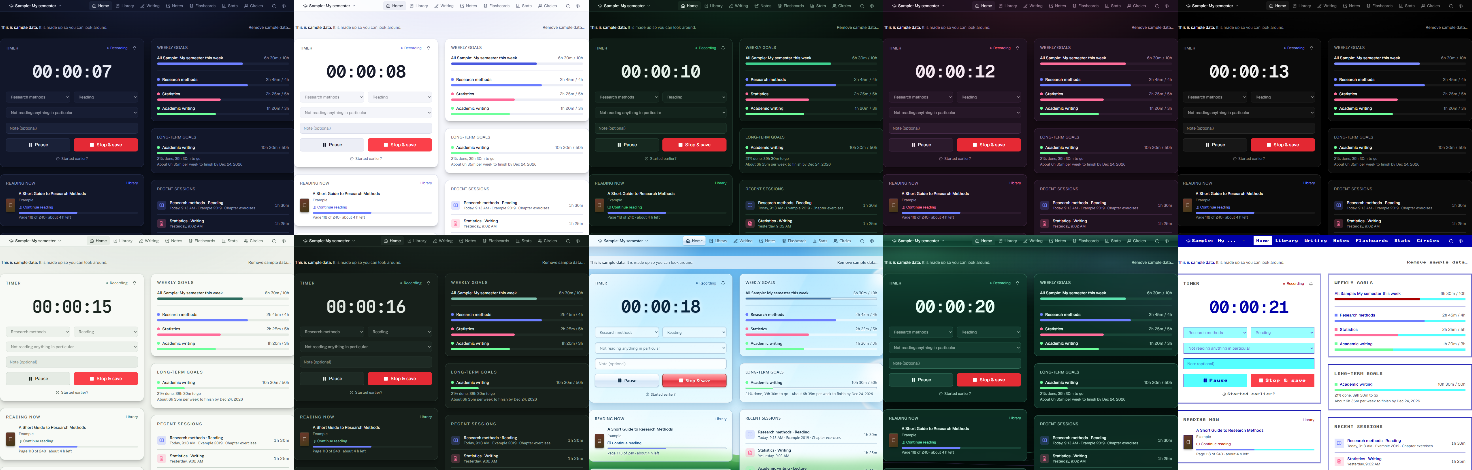
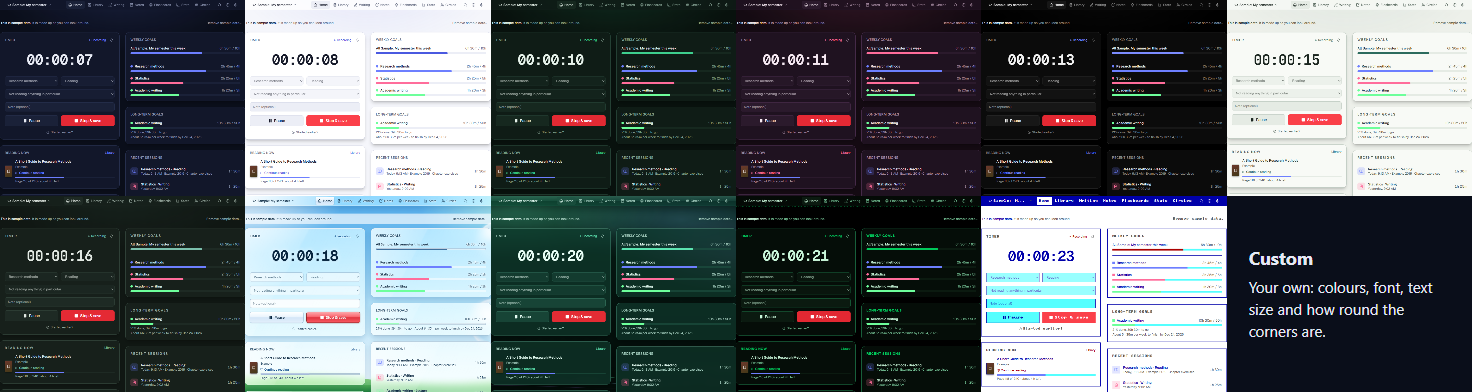
Update the site

diff --git a/docs/manual.html b/docs/manual.html
@@ -23,7 +23,7 @@
   </header>
 
   <h1>The full user manual</h1>
-  <p class="lead">Everything Voynich does, part by part. New here? Start with <a href="guide.html">Getting started in ten minutes</a>. This manual describes version 0.75.0; later versions may add things, and Settings, About and updates lists what changed.</p>
+  <p class="lead">Everything Voynich does, part by part. New here? Start with <a href="guide.html">Getting started in ten minutes</a>. This manual describes version 0.76.0; later versions may add things, and Settings, About and updates lists what changed.</p>
 
   <div class="layout">
     <nav class="toc" aria-label="Contents">
@@ -87,7 +87,8 @@
           <tr><td><strong>Goal</strong></td><td>A weekly or total number of hours for a course, or a daily goal for the room.</td></tr>
         </table>
         <p id="places">The hall and every room have the same tabs along the top: <strong>Home</strong>, <strong>Library</strong>, <strong>Writing</strong>, <strong>Notes</strong>, <strong>Flashcards</strong>, <strong>Stats</strong> (with the sessions inside it) and <strong>Circles</strong>, and <strong>AI</strong> in a room when the AI is on. The room they show is named at the start of the bar: click it to choose another room (or the hall), and you stay on the same tab, so Notes in one room opens Notes in the other. At the end of the bar are the search and the gear, <strong>Settings</strong>: one page, the same in the hall and in every room (see <a href="#settings">Settings</a>). In the hall, Library has every room&rsquo;s books too, Stats is the hall and all your rooms together, and Flashcards shows what is due in each room. In this manual, &ldquo;Settings, Privacy&rdquo; means the Privacy tab of that page. The same menu has the closed rooms under their own heading, and <strong>New room</strong>. On a narrow window the tabs show only their icons (point at one for its name); on a phone they are in a bar at the bottom (see <a href="#phone">On the phone</a>).</p>
-        <p id="top-bar">The bar of pages along the top gets out of the way while you read down a page: it slides up as you scroll down, and comes back when you move the pointer to the top edge of the window, when you scroll back to the top, when you <kbd>Tab</kbd> into it, or (on a phone) when you scroll up. A document&rsquo;s own buttons and toolbar move up into its place and back.</p>
+        <p id="top-bar">The bar of pages along the top gets out of the way while you read down a page: it slides up as you scroll down, and comes back when you move the pointer to the top edge of the window, when you scroll back to the top, when you <kbd>Tab</kbd> into it, or (on a phone) when you scroll up. A document&rsquo;s own buttons and toolbar move up into its place and back. At its start is the <em>room menu</em> (the name of the room you are in: pick the hall or another room there, or make a new one; the tab you are on stays). At its end are <em>Search everything</em> (the magnifier, or <kbd>Ctrl</kbd>+<kbd>K</kbd>: books, notes, documents, cards, sessions and settings, from anywhere), <em>Guide</em> (the <strong>?</strong>, below) and <strong>Settings</strong> (the gear). On a phone the tabs move to a bar at the bottom, with <em>More</em> for the ones that do not fit.</p>
+        <p id="guide"><strong>The guide.</strong> This manual is inside Voynich too, as its guide, the same text, so it works without the internet. <em>Guide</em>, the <strong>?</strong> at the end of the top bar (beside the search and Settings, on every page and on a phone too) has two choices: <em>Guide to this page</em> opens the guide at the part about the page you are on (in Settings, at the tab that is open), and <em>What is this?</em> lets you point at things: while it is on, a button, tab or box you press is not pressed but explained, with the line of the guide that names it and a link to that part. Press as many as you like, then <em>Done</em> or <kbd>Esc</kbd>. With the keyboard, <kbd>Tab</kbd> to a control and press <kbd>Enter</kbd>. The guide has its own search, and its contents beside it. (The <kbd>?</kbd> key still shows the keyboard shortcuts.)</p>
         <figure class="shot"><a class="zoom" href="img/settings-general.png"><img src="img/settings-general.png" width="1280" height="900" alt="Settings in the hall: the list of tabs on the left with a search box above it, and General open with the start page." loading="lazy"></a><figcaption>Settings: the tabs, the search, and General.</figcaption></figure>
         <p id="settings"><strong>Settings</strong> (the gear) is one page, the same in the hall and in every room, in tabs: <em>General</em> (the start page), <em>Look</em> (themes, text size, fonts), <em>Study</em> (break reminders, Stats&rsquo; colours), <em>Flashcards</em>, <em>Reading</em> (the reader&rsquo;s pages, text boxes, the notes beside a book, what each highlight colour means, the Library, book search), <em>Writing</em>, <em>Notes</em> (note cards, the graph), <em>AI</em>, <em>Circles and phone</em>, <em>Data</em>, <em>Privacy</em>, <em>Shortcuts</em>, <em>About and updates</em> and <em>This room</em> (a room&rsquo;s courses, activities, name, symbol and goals, closing or deleting it). <em>This room</em> and <em>Flashcards</em> are about one room: the room you are in, or another chosen at the top. <strong>Search the settings</strong>, above the tabs, finds a setting by its words (&ldquo;font&rdquo; finds the text size and the theme&rsquo;s fonts) and opens its tab at it; the search of everything (<kbd>Ctrl</kbd>+<kbd>K</kbd>) finds settings too. Each part says where it is kept: <em>This browser only</em> (a phone and the computer can differ, such as the reader&rsquo;s pages or the text size), <em>Every browser you use</em>, or one room only. Settings you meet where you use them (the reader&rsquo;s menus, Flashcards&rsquo; menu, Writing&rsquo;s Paper button, the timer&rsquo;s bell) stay there too and change the same setting. On a phone, Settings shows the list of tabs first and one tab at a time.</p>
         <p id="start-page"><strong>Where Voynich opens.</strong> Settings, <em>General</em>, <em>Start page</em>: the hall (as before), the room you used last, or always one room. A room that is closed or deleted opens the hall instead.</p>
@@ -96,12 +97,12 @@
         <h3>Installing</h3>
         <p>Download <a href="https://github.com/cliteka-cell/voynich-releases/releases/latest/download/Voynich-Setup.exe">Voynich-Setup.exe</a> and open it. Windows may say &ldquo;Windows protected your PC&rdquo; because the program is not signed with a paid certificate: choose <strong>More info</strong>, then <strong>Run anyway</strong>. Setup installs for your user only and needs no administrator rights. It offers a Desktop shortcut and adds Voynich to the Start menu. Voynich works on Windows 10 and 11 (64-bit), and on macOS 11 or newer (below); there is no Linux version yet.</p>
         <h3 id="mac">Install on a Mac</h3>
-        <p>Download <a href="https://github.com/cliteka-cell/voynich-releases/releases/latest/download/Tracker-Mac.dmg">Tracker-Mac.dmg</a> (one download for Apple Silicon and Intel Macs, macOS 11 or newer), open it, and drag Tracker onto the Applications folder. The Mac version is behind the Windows one and still has the old name, Tracker; it becomes Voynich when it catches up. Voynich is not signed with a paid Apple certificate, so macOS stops it the first time, once:</p>
+        <p>Download <a href="https://github.com/cliteka-cell/voynich-releases/releases/latest/download/Tracker-Mac.dmg">Tracker-Mac.dmg</a> (one download for Apple Silicon and Intel Macs, macOS 11 or newer), open it, and drag Tracker onto the Applications folder. On a Mac it keeps the old name, Tracker, for now: the same version as on Windows, with everything this manual describes, under the old name (and its data folder keeps it too). It is not signed with a paid Apple certificate, so macOS stops it the first time, once:</p>
         <ul>
-          <li>macOS 15 (Sequoia) and newer: open Voynich, close the message, then open System Settings, <strong>Privacy &amp; Security</strong>, scroll down to Security and press <strong>Open Anyway</strong> next to the line about Voynich, and confirm. The button is there for about an hour after the message.</li>
-          <li>macOS 11 to 14 (Big Sur, Monterey, Ventura, Sonoma): Control-click (or right-click) Voynich in the Applications folder, choose <strong>Open</strong>, then <strong>Open</strong> again.</li>
+          <li>macOS 15 (Sequoia) and newer: open Tracker, close the message, then open System Settings, <strong>Privacy &amp; Security</strong>, scroll down to Security and press <strong>Open Anyway</strong> next to the line about Tracker, and confirm. The button is there for about an hour after the message.</li>
+          <li>macOS 11 to 14 (Big Sur, Monterey, Ventura, Sonoma): Control-click (or right-click) Tracker in the Applications folder, choose <strong>Open</strong>, then <strong>Open</strong> again.</li>
         </ul>
-        <p>After that it opens like any app, and updates from inside Voynich do not ask again. On a Mac, Voynich&rsquo;s icon is a small clock in the menu bar at the top right (it has no Dock icon); <strong>click</strong> it to open Voynich, <strong>Control-click</strong> it for its menu. Your data is in <code>~/Library/Application Support/Voynich/data</code> and the log in <code>~/Library/Application Support/Voynich/logs/tracker.log</code>. To remove it, quit Voynich and drag it to the Trash; the data folder stays until you delete it.</p>
+        <p>After that it opens like any app, and updates from inside Voynich do not ask again. On a Mac, Voynich&rsquo;s icon is a small clock in the menu bar at the top right (it has no Dock icon); <strong>click</strong> it to open Voynich, <strong>Control-click</strong> it for its menu. Your data is in <code>~/Library/Application Support/Tracker/data</code> and the log in <code>~/Library/Application Support/Tracker/logs/tracker.log</code>. To remove it, quit it and drag Tracker to the Trash; the data folder stays until you delete it.</p>
         <h3>Starting</h3>
         <p>Start Voynich from the Start menu or the Desktop shortcut (on a Mac, from the Applications folder). It runs quietly in the background with no window of its own, opens in your default browser, and puts a small icon near the clock (if you cannot see it, click the little arrow next to the clock). <strong>Click the icon</strong> to open Voynich in the browser; <strong>right-click</strong> it for <em>Open Voynich</em>, <em>Show the log folder</em> and <em>Quit Voynich</em>. Starting Voynich a second time just opens the first one.</p>
         <p>The address in the browser is <code>http://localhost:3417</code> (or a nearby number if that one is busy). It works only on your computer: no other device on your network can open it, unless you turn on <em>Use Voynich from your phone</em> and pair a phone (see <a href="#phone">Your phone</a>).</p>
@@ -656,7 +657,7 @@
         </ul>
 
         <h2 id="look">17. Themes and looks</h2>
-        <p>Settings, <em>Look</em>, <em>Theme</em> offers ten themes, plus <strong>Custom</strong>:</p>
+        <p>Settings, <em>Look</em>, <em>Theme</em> offers eleven themes, plus <strong>Custom</strong>:</p>
         <ul>
           <li><strong>Midnight</strong> (the default dark one), <strong>Black</strong>, <strong>Light</strong>, <strong>Forest</strong> and <strong>Rose</strong>.</li>
           <li><strong>Folio</strong> and <strong>Folio Night</strong>: paper and green ink, light and dark, with titles in a book face (IM Fell English), text in Public Sans and numbers in JetBrains Mono. The three fonts come with Voynich, so they work offline.</li>
@@ -664,8 +665,8 @@
           <li><strong>CCRU</strong>: black and phosphor green, after the cover of <em>Ccru Writings 1997&ndash;2003</em>, with the Numogram in the left margin of the page (it steps back in a narrow window, and does not show on a phone). The drawing is by Liza Desyatkova, Hijinx World, in the public domain (CC0).</li>
           <li><strong>TempleOS</strong>: a white page, blue text, double lines and the 16 colours of TempleOS, with its square 8 by 8 letters (taken from TempleOS itself, which is in the public domain) in the bars, tabs, buttons and titles. Notes, books and documents keep plain letters; <em>Customize</em>, <em>Font</em>, <em>TempleOS square, everywhere</em> puts them on all the text.</li>
         </ul>
-        <figure class="shot"><a class="zoom" href="img/themes.png"><img src="img/themes.png" width="1472" height="470" alt="The same page in ten themes: midnight, light, forest, rose, black, Folio, Folio Night, Aero Sky, Aero Aurora and TempleOS." loading="lazy"></a><figcaption>The same page in the ten themes.</figcaption></figure>
-        <figure class="shot"><a class="zoom" href="img/settings-theme.png"><img src="img/settings-theme.png" width="1280" height="960" alt="Settings, Look: the text size, the ten themes and Custom, and the Customize panel open, showing colour pickers." loading="lazy"></a><figcaption>Choosing and customising a theme.</figcaption></figure>
+        <figure class="shot"><a class="zoom" href="img/themes.png"><img src="img/themes.png" width="1472" height="392" alt="The same page in eleven themes: midnight, light, forest, rose, black, Folio, Folio Night, Aero Sky, Aero Aurora, CCRU and TempleOS." loading="lazy"></a><figcaption>The same page in the eleven themes.</figcaption></figure>
+        <figure class="shot"><a class="zoom" href="img/settings-theme.png"><img src="img/settings-theme.png" width="1280" height="960" alt="Settings, Look: the text size, the themes and Custom, and the Customize panel open, showing colour pickers." loading="lazy"></a><figcaption>Choosing and customising a theme.</figcaption></figure>
         <ul>
           <li><strong>Text size</strong> (above the themes): <em>Small</em>, <em>Normal</em> or <em>Large</em> for the whole app, in every theme. It is kept in this browser only, so a phone can have its own.</li>
           <li><strong>Customize</strong> (under the themes) changes any theme&rsquo;s colours one by one, the <em>font</em> (the theme&rsquo;s own, a system font, or one you name), <em>this theme&rsquo;s text size</em> (on top of the Text size above) and how <em>round</em> the corners are. Everything shows on the page at once. A small button puts any colour back; <em>Reset</em> restores the theme.</li>
@@ -679,7 +680,7 @@
         <h2 id="data">18. Backups, exports, moving</h2>
         <figure class="shot"><a class="zoom" href="img/settings-data.png"><img src="img/settings-data.png" width="1280" height="900" alt="Data and backups in settings: three download buttons, Back up now, Import from a file, and saved copies with Restore." loading="lazy"></a><figcaption>Settings, Data.</figcaption></figure>
         <h3>Where your data is</h3>
-        <p>Everything (sessions, notes, books, highlights, pictures and covers) is in one file, <code>tracker.db</code>, in <code>%LOCALAPPDATA%\Voynich\data</code> (paste that into the File Explorer address bar; on a Mac, <code>~/Library/Application Support/Voynich/data</code>). Saved copies are in its <code>backups</code> folder, and the PDF and EPUB files you attached to books in its <code>books</code> folder. Settings, Privacy lists all the places for your computer.</p>
+        <p>Everything (sessions, notes, books, highlights, pictures and covers) is in one file, <code>tracker.db</code>, in <code>%LOCALAPPDATA%\Voynich\data</code> (paste that into the File Explorer address bar; on a Mac, <code>~/Library/Application Support/Tracker/data</code>). Saved copies are in its <code>backups</code> folder, and the PDF and EPUB files you attached to books in its <code>books</code> folder. Settings, Privacy lists all the places for your computer.</p>
         <h3>Saved copies</h3>
         <ul>
           <li>Voynich saves one copy automatically each day and keeps the last 14. <strong>Back up now</strong> makes one on request; those are kept until you remove them.</li>
@@ -702,7 +703,7 @@
         <p>Your documents in Writing, and their earlier versions, are part of your data: the daily copies, the complete copy and the readable data hold them.</p>
         <p>All three downloads cover all your rooms. Your saved keys (AI, book search) are <em>left out</em> of the complete copy and the zip on purpose, so the files are safe in a cloud drive.</p>
         <h3>Moving to another computer</h3>
-        <p>Install Voynich there, make a complete copy or a zip here (with <em>Include my books</em> if you read books in Voynich), and on the new computer press <strong>Import from a file...</strong> and pick it (see below). Or, with Voynich closed on both, copy the whole <code>%LOCALAPPDATA%\Voynich</code> folder (<code>~/Library/Application Support/Voynich</code> on a Mac).</p>
+        <p>Install Voynich there, make a complete copy or a zip here (with <em>Include my books</em> if you read books in Voynich), and on the new computer press <strong>Import from a file...</strong> and pick it (see below). Or, with Voynich closed on both, copy the whole <code>%LOCALAPPDATA%\Voynich</code> folder (<code>~/Library/Application Support/Tracker</code> on a Mac).</p>
         <h3>If the data file is damaged</h3>
         <p>After a crash, a power cut or a disk problem the file can become unreadable. Voynich then still starts, says so in plain words, and lists the healthy saved copies it found with what each holds. <strong>Use this copy</strong> puts one in place; the damaged file is not deleted but moved to a <code>damaged</code> folder next to your data. Anything you added after that copy was made is not in it.</p>
         <figure class="shot"><a class="zoom" href="img/damaged.png"><img src="img/damaged.png" width="1280" height="900" alt="The page Voynich shows when its data file is damaged: what to do, and a list of saved copies with a Use this copy button." loading="lazy"></a><figcaption>The recovery page.</figcaption></figure>
@@ -760,7 +761,7 @@
         <details><summary>macOS says Voynich cannot be opened</summary><p>That is the first-start check, once: see <a href="#mac">Install on a Mac</a>. If Update now says &ldquo;Move Voynich into your Applications folder first&rdquo;, Voynich is running from the disk image or a folder you cannot change: drag it into Applications and start it from there.</p></details>
         <details><summary>&ldquo;Your data file is damaged&rdquo;</summary><p>Choose the newest saved copy listed and press <strong>Use this copy</strong>. The damaged file is kept in the <code>damaged</code> folder. See <a href="#data">Backups</a>. If no copy is listed, close Voynich and look in the <code>backups</code> folder shown on that page; the copies there are ordinary <code>.db</code> files, and someone you trust can help you look.</p></details>
         <details><summary>&ldquo;The disk is full&rdquo;, or a save fails</summary><p>Free some space (empty the Recycle Bin, remove files you do not need) and try again. What you saved earlier is safe, and a running timer keeps running until a save works.</p></details>
-        <details><summary>&ldquo;Voynich cannot write to its data&rdquo; or &ldquo;Your data is busy&rdquo;</summary><p>A security or sync program may be holding the data folder. Wait a few seconds and retry; if it keeps happening, allow Voynich to use <code>%LOCALAPPDATA%\Voynich</code> (<code>~/Library/Application Support/Voynich</code> on a Mac).</p></details>
+        <details><summary>&ldquo;Voynich cannot write to its data&rdquo; or &ldquo;Your data is busy&rdquo;</summary><p>A security or sync program may be holding the data folder. Wait a few seconds and retry; if it keeps happening, allow Voynich to use <code>%LOCALAPPDATA%\Voynich</code> (<code>~/Library/Application Support/Tracker</code> on a Mac).</p></details>
         <details><summary>A book search finds nothing, or says a service did not answer</summary><p>Check your internet connection. Open Library does not know every edition; add an ISBNdb or Google Books key in Settings, Reading, Book search (see <a href="#library">The Library</a>), or choose <em>Enter it by hand instead</em>. A search for an article needs its DOI or title words (Crossref).</p></details>
         <details><summary>Update now does not work</summary><p>It says why. If it fails to download, check your connection and try again; you can always run the newest <a href="https://github.com/cliteka-cell/voynich-releases/releases/latest/download/Voynich-Setup.exe">Voynich-Setup.exe</a> by hand. Version 0.3.0 could give up on computers where looking up GitHub&rsquo;s address is slow; 0.3.1 fixed that, so update by hand to 0.3.1 or later once.</p></details>
         <details><summary>A book says its file is not on this computer</summary><p>That happens after restoring a copy without the books, or when the file in the <code>books</code> folder was deleted. Edit the book and choose <em>Attach it again</em> with the same PDF or EPUB; its notes and highlights are still there. Next time, tick <em>Include my books in the complete copy</em> (see <a href="#data">Backups</a>) to take the files with you.</p></details>
@@ -769,7 +770,7 @@
         <details><summary>&ldquo;Voynich cannot find its data file&rdquo;</summary><p>The data file is not where Voynich expects it, or cannot be opened. Close Voynich and open it again. If the file is really gone, Voynich starts fresh, and your saved copies are still in the <code>backups</code> folder: open Settings, Data, and restore one.</p></details>
         <details><summary>I started a timer on one computer and cannot see it on another</summary><p>The running timer lives in the browser it was started in. Voynich data does not sync between computers; save the session where you started it.</p></details>
         <details><summary>Where is the log, and what do I send when I ask for help?</summary><p>Right-click the Voynich icon and choose <em>Show the log folder</em> (or see Settings, About and updates). It is a plain text file named <code>tracker.log</code>. A failed save can leave a piece of what you were saving in it, so read it before you send it to anyone (for example to <a href="mailto:clite.ka@gmail.com">clite.ka@gmail.com</a>), and send only what you are comfortable with. <em>Send feedback</em> in Settings, About and updates puts its last lines under your message for you, to read before you send it.</p></details>
-        <details><summary>How do I remove all my data?</summary><p>Uninstall Voynich and answer <strong>Yes</strong> when it asks about your data, or delete the <code>%LOCALAPPDATA%\Voynich</code> folder (on a Mac, <code>~/Library/Application Support/Voynich</code>) with Voynich closed. This cannot be undone, so make a complete copy first if you might want it.</p></details>
+        <details><summary>How do I remove all my data?</summary><p>Uninstall Voynich and answer <strong>Yes</strong> when it asks about your data, or delete the <code>%LOCALAPPDATA%\Voynich</code> folder (on a Mac, <code>~/Library/Application Support/Tracker</code>) with Voynich closed. This cannot be undone, so make a complete copy first if you might want it.</p></details>
 
         <h2 id="faq">23. Questions</h2>
         <details><summary>Is it free? Is it open source?</summary><p>It is free to download and use. It is <strong>not</strong> open source: the program&rsquo;s code is not published. The <a href="terms.html">terms of use</a> say what you may do with it.</p></details>

diff --git a/docs/index.html b/docs/index.html
@@ -160,7 +160,7 @@ section > h2 { font-size: clamp(30px, 4.4vw, 40px); margin: 0 0 8px; padding-top
       <h2 id="look-title">A closer look</h2>
       <p class="section-lead">Click any picture to see it larger. All of them show made-up sample data, and the <a href="manual.html">full manual</a> has more.</p>
       <div class="gallery single">
-        <figure class="shot wide"><a class="zoom" href="img/themes.png"><img loading="lazy" src="img/themes.png" width="1472" height="470" alt="The same dashboard with a running timer in ten themes side by side: midnight, light, forest, rose, black, Folio, Folio Night, Aero Sky, Aero Aurora and TempleOS."></a><figcaption>Ten themes, and you can make your own: colours, font, text size and how round the corners are.</figcaption></figure>
+        <figure class="shot wide"><a class="zoom" href="img/themes.png"><img loading="lazy" src="img/themes.png" width="1472" height="392" alt="The same dashboard with a running timer in eleven themes side by side: midnight, light, forest, rose, black, Folio, Folio Night, Aero Sky, Aero Aurora, CCRU and TempleOS."></a><figcaption>Eleven themes, and you can make your own: colours, font, text size and how round the corners are.</figcaption></figure>
       </div>
       <div class="gallery" data-coverflow aria-label="Screenshots of Voynich" style="margin-top:36px">
         <figure class="shot"><a class="zoom" href="img/welcome.png"><img loading="lazy" src="img/welcome.png" width="1280" height="940" alt="The Voynich welcome page: four starting points (a language, my studies, research or a thesis, something else) and a button to try it with sample data."></a><figcaption>Start with a language, your studies, research or something else, or look around with sample data first.</figcaption></figure>
@@ -217,9 +217,9 @@ section > h2 { font-size: clamp(30px, 4.4vw, 40px); margin: 0 0 8px; padding-top
         <li><a href="https://github.com/cliteka-cell/voynich-releases/releases/latest/download/Voynich-Setup.exe">Download <code>Voynich-Setup.exe</code></a> (always the newest version). Older versions and checksums are on the <a href="https://github.com/cliteka-cell/voynich-releases/releases">releases page</a>.</li>
         <li>Open it. If Windows says &ldquo;Windows protected your PC&rdquo;, choose &ldquo;More info&rdquo; and then &ldquo;Run anyway&rdquo;. It does not need administrator rights.</li>
         <li>Click Next and Install. Voynich opens in your browser, and a small icon near the clock opens or quits it.</li>
-        <li>On a Mac: <a href="https://github.com/cliteka-cell/voynich-releases/releases/latest/download/Tracker-Mac.dmg">download <code>Tracker-Mac.dmg</code></a>, open it and drag Tracker onto the Applications folder (the Mac version is behind and still has the old name; it becomes Voynich when it catches up). The first time, macOS asks you to allow it once (<a href="manual.html#mac">how</a>). Its icon is in the menu bar.</li>
+        <li>On a Mac: <a href="https://github.com/cliteka-cell/voynich-releases/releases/latest/download/Tracker-Mac.dmg">download <code>Tracker-Mac.dmg</code></a>, open it and drag Tracker onto the Applications folder (on a Mac it keeps the old name, Tracker, for now: the same version as on Windows). The first time, macOS asks you to allow it once (<a href="manual.html#mac">how</a>). Its icon is in the menu bar.</li>
       </ol>
-      <p class="section-lead" style="margin-top:16px">Your data is kept in <code>%LOCALAPPDATA%\Voynich\data</code> (on a Mac, <code>~/Library/Application Support/Voynich/data</code>). Installing a newer version over an old one keeps it. To check a download, each release lists the SHA-256 checksum of its downloads.</p>
+      <p class="section-lead" style="margin-top:16px">Your data is kept in <code>%LOCALAPPDATA%\Voynich\data</code> (on a Mac, <code>~/Library/Application Support/Tracker/data</code>). Installing a newer version over an old one keeps it. To check a download, each release lists the SHA-256 checksum of its downloads.</p>
     </section>
 
     <section id="questions" aria-labelledby="questions-title">

diff --git a/docs/guide.html b/docs/guide.html
@@ -31,7 +31,7 @@
         <h2 style="margin-top:0;border-top:0;padding-top:0">Install it</h2>
         <p><a class="button" href="https://github.com/cliteka-cell/voynich-releases/releases/latest/download/Voynich-Setup.exe">Download for Windows</a> <a class="button" href="https://github.com/cliteka-cell/voynich-releases/releases/latest/download/Tracker-Mac.dmg">Download for Mac</a></p>
         <p>Open the file you downloaded. If Windows says &ldquo;Windows protected your PC&rdquo;, choose <strong>More info</strong> and then <strong>Run anyway</strong> (the program is not signed with a paid certificate). Click Next and Install; it needs no administrator rights. When it finishes, Voynich opens in your web browser, and a small Voynich icon appears near the clock. Click that icon to open Voynich again later; right-click it to quit.</p>
-        <p>On a Mac, open the disk image and drag Voynich onto the Applications folder. The first time, macOS asks you to allow it once (<a href="manual.html#mac">how</a>); then Voynich opens in your browser and a small clock icon appears in the menu bar at the top right. Click it to open Voynich; Control-click it to quit.</p>
+        <p>On a Mac, open the disk image and drag Tracker (the Mac version keeps the old name for now) onto the Applications folder. The first time, macOS asks you to allow it once (<a href="manual.html#mac">how</a>); then Voynich opens in your browser and a small clock icon appears in the menu bar at the top right. Click it to open Voynich; Control-click it to quit.</p>
         <p>You can also start it from the Start menu (on a Mac, from the Applications folder). Voynich only answers to your own computer: nobody else can open it, unless you turn on <em>Use Voynich from your phone</em> in Settings, Circles and phone, and pair your phone (see <a href="manual.html#phone">Your phone</a> in the manual).</p>
       </li>
 
